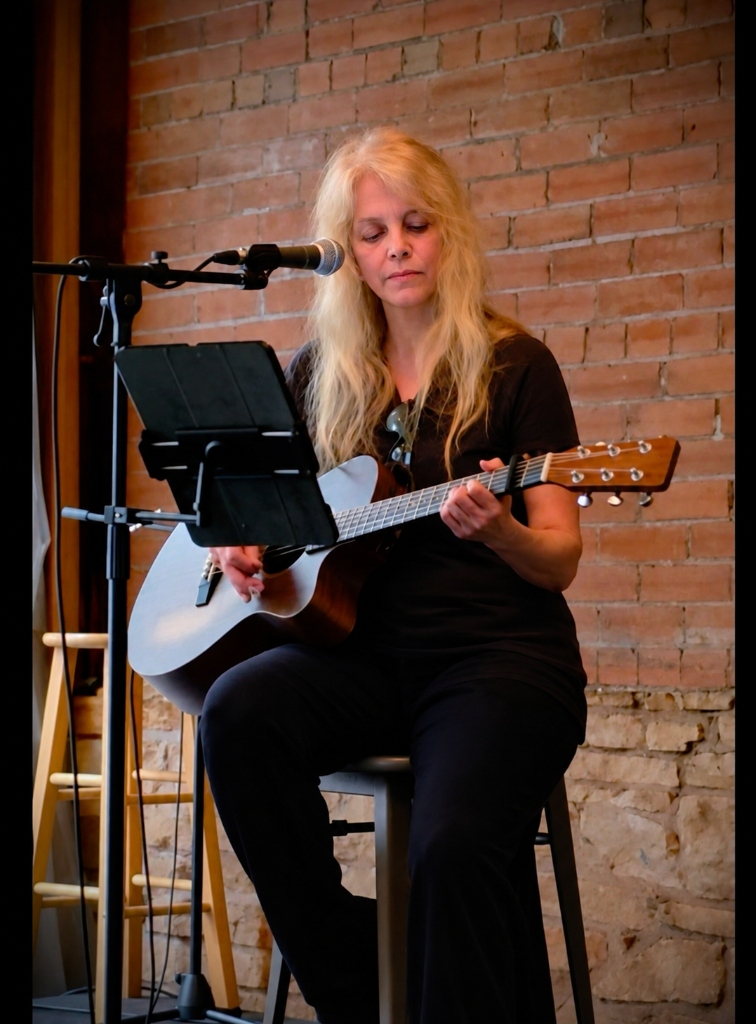
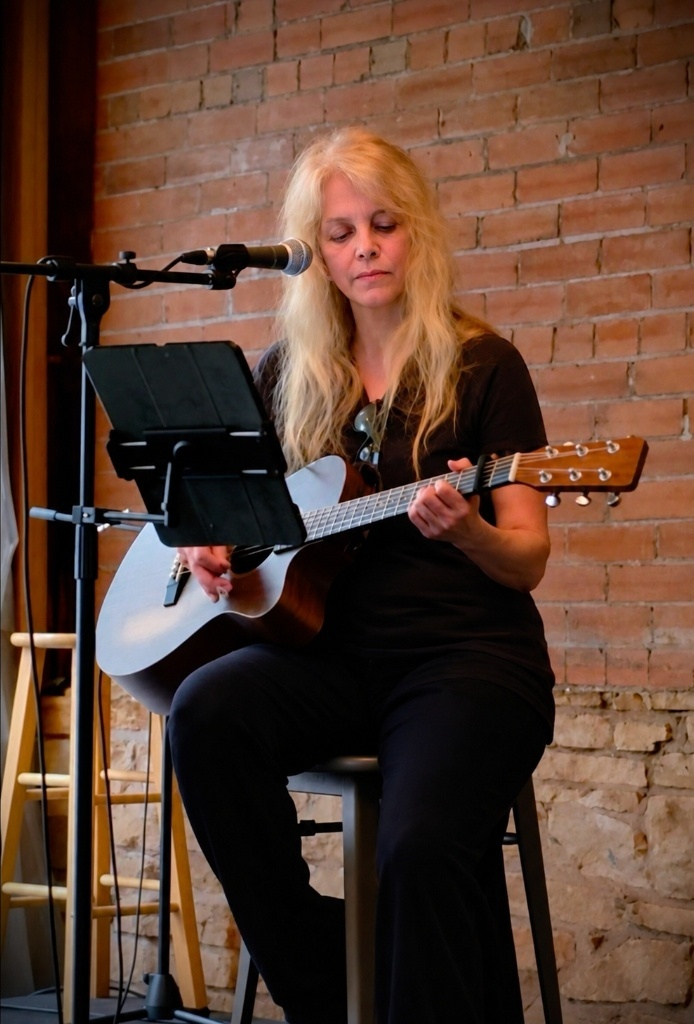
Show performer whole body in Acoustic Session - In Focus gallery card

diff --git a/index.html b/index.html
@@ -33,8 +33,8 @@
   <link rel="preconnect" href="https://fonts.googleapis.com">
   <link rel="preconnect" href="https://fonts.gstatic.com" crossorigin>
   <link rel="stylesheet" href="https://fonts.googleapis.com/css2?family=Karla:wght@400;500;600;700;800&family=Plus+Jakarta+Sans:wght@600;700;800&display=swap">
-  <link rel="stylesheet" href="styles.css?v=20261108c">
-  <script defer src="site.js?v=20261108c"></script>
+  <link rel="stylesheet" href="styles.css?v=20261108d">
+  <script defer src="site.js?v=20261108d"></script>
   <script type="application/ld+json">
   {
     "@context": "https://schema.org",
@@ -999,7 +999,7 @@
             <span>Live on Stage · Guitar &amp; Vocals</span>
           </button>
           <button type="button" class="gallery-item" data-tilt data-photo="images/reb-acoustic-brick.jpg" aria-label="Enlarge photo: Acoustic Performance · In Focus">
-            <img src="images/reb-acoustic-brick.jpg" alt="Reb Yen playing acoustic guitar against brick backdrop" width="480" height="360" loading="lazy" style="object-position: center 8%;">
+            <img src="images/reb-acoustic-brick-full.jpg" alt="Reb Yen playing acoustic guitar against brick backdrop" width="480" height="360" loading="lazy">
             <span>Acoustic Session · In Focus</span>
           </button>
           <button type="button" class="gallery-item" data-tilt data-photo="images/reb-harmonica-sunburst.jpg" aria-label="Enlarge photo: Sunburst Acoustic &amp; Harmonica">
